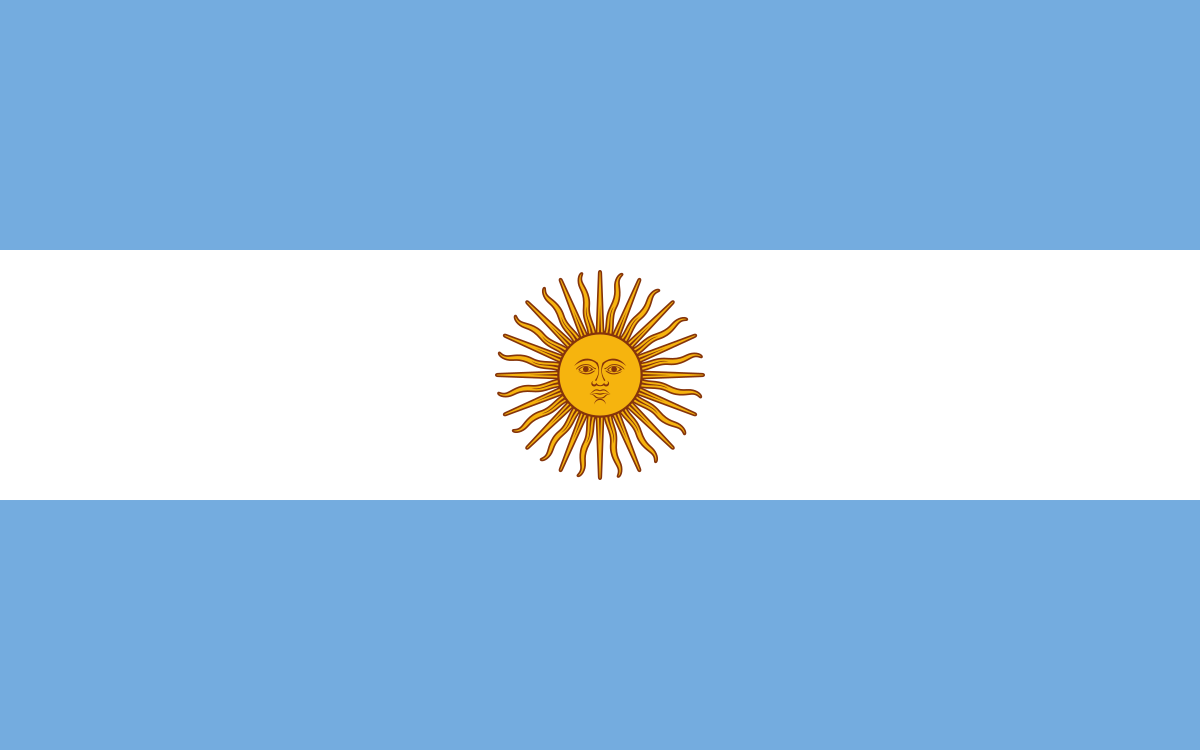
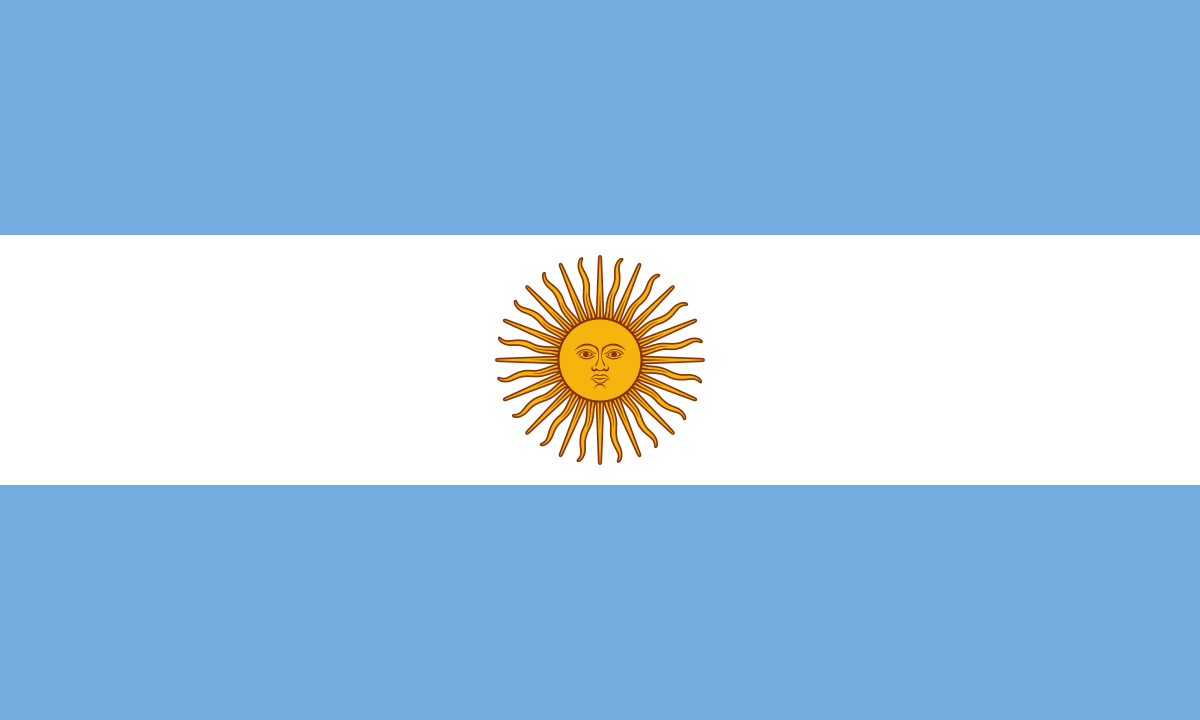
erro na resolução das bandeiraS :(

Changed region(s): [[0.0, 0.3667, 1.0, 0.6722], [0.0, 0.3056, 1.0, 0.3361]]

diff --git a/GeoMente/Form1.cs b/GeoMente/Form1.cs
@@ -43,6 +43,8 @@ namespace GeoMente
             btnNovoJogo.Click += new EventHandler(btnNovoJogo_Click);
             btnAdivinhar.Click += new EventHandler(btnAdivinhar_Click);
             timerJogo.Tick += new EventHandler(timerJogo_Tick);
+            this.FormClosing += new FormClosingEventHandler(Form1_FormClosing);
+            btnJogarNovamente.Click += new EventHandler(btnJogarNovamente_Click);
 
             // Inicia o jogo assim que o formulário é carregado
             IniciarNovoJogo();
@@ -87,66 +89,7 @@ namespace GeoMente
             paisAtual = todosOsPaises[rand.Next(todosOsPaises.Count)];
             paisAtualNomeSemAcentos = RemoverAcentos(paisAtual.Nome);
 
-            // Libera a imagem anterior, se existir
-            if (pictureBoxBandeira.Image != null)
-            {
-                pictureBoxBandeira.Image.Dispose();
-            }
-
-            // Carrega a imagem da bandeira
-            string imagePath = Path.Combine(exeDir, paisAtual.CaminhoImagem);
-            if (File.Exists(imagePath))
-            {
-                try
-                {
-                    // Load the image using Image.FromFile
-                    Image loadedImage = Image.FromFile(imagePath);
-
-                    // Create a new Bitmap from the loaded image to ensure proper disposal
-                    // and avoid potential issues with Image.FromFile's internal locking.
-                    pictureBoxBandeira.Image = new Bitmap(loadedImage);
-
-                    // Dispose the original loaded image
-                    loadedImage.Dispose();
-                }
-                catch (ArgumentException ex)
-                {
-                    // Handle the case where the file is not a valid image or is corrupted
-                    Console.WriteLine($"Erro ao carregar imagem: {ex.Message}");
-                    // Display placeholder
-                    Bitmap bmp = new Bitmap(pictureBoxBandeira.Width, pictureBoxBandeira.Height);
-                    using (Graphics g = Graphics.FromImage(bmp))
-                    {
-                        g.Clear(Color.LightGray);
-                        g.DrawString("Erro ao carregar imagem", this.Font, Brushes.Black, 10, 10);
-                    }
-                    pictureBoxBandeira.Image = bmp;
-                }
-                catch (OutOfMemoryException ex)
-                {
-                    // Handle potential OutOfMemoryException again, though less likely with this approach
-                    Console.WriteLine($"Erro de memória ao carregar imagem: {ex.Message}");
-                    // Display placeholder
-                    Bitmap bmp = new Bitmap(pictureBoxBandeira.Width, pictureBoxBandeira.Height);
-                    using (Graphics g = Graphics.FromImage(bmp))
-                    {
-                        g.Clear(Color.LightGray);
-                        g.DrawString("Erro de memória", this.Font, Brushes.Black, 10, 10);
-                    }
-                    pictureBoxBandeira.Image = bmp;
-                }
-            }
-            else
-            {
-                // If the image file doesn't exist, display a placeholder
-                Bitmap bmp = new Bitmap(pictureBoxBandeira.Width, pictureBoxBandeira.Height);
-                using (Graphics g = Graphics.FromImage(bmp))
-                {
-                    g.Clear(Color.LightGray);
-                    g.DrawString("Imagem não encontrada", this.Font, Brushes.Black, 10, 10);
-                }
-                pictureBoxBandeira.Image = bmp;
-            }
+            CarregarImagemBandeira();
 
             // Inicializa a palavra exibida com underscores
             palavraExibida = new char[paisAtual.Nome.Length];
@@ -201,6 +144,8 @@ namespace GeoMente
 
             // Limpa a mensagem de fim de jogo
             lblMensagemFinal.Visible = false;
+            btnJogarNovamente.Visible = false;
+            btnNovoJogo.Visible = true;
         }
 
         private void btnNovoJogo_Click(object sender, EventArgs e)
@@ -295,6 +240,8 @@ namespace GeoMente
             timerJogo.Stop();
             txtLetra.Enabled = false;
             btnAdivinhar.Enabled = false;
+            btnNovoJogo.Visible = false;
+            btnJogarNovamente.Visible = true;
 
             if (vitoria)
             {
@@ -309,6 +256,11 @@ namespace GeoMente
                 lblMensagemFinal.ForeColor = Color.Red;
             }
             lblMensagemFinal.Visible = true;
+        }
+
+        private void btnJogarNovamente_Click(object sender, EventArgs e)
+        {
+            IniciarNovoJogo();
         }
 
         private void timerJogo_Tick(object sender, EventArgs e)
@@ -327,6 +279,50 @@ namespace GeoMente
         private void pictureBoxBandeira_Click(object sender, EventArgs e)
         {
 
+        }
+
+        private void CarregarImagemBandeira()
+        {
+            if (pictureBoxBandeira.Image != null)
+            {
+                pictureBoxBandeira.Image.Dispose();
+                pictureBoxBandeira.Image = null;
+            }
+
+            string imagePath = Path.Combine(exeDir, paisAtual.CaminhoImagem);
+            if (File.Exists(imagePath))
+            {
+                try
+                {
+                    using (Image originalImage = Image.FromFile(imagePath))
+                    {
+                        int newWidth = pictureBoxBandeira.Width;
+                        int newHeight = (int)((double)originalImage.Height / originalImage.Width * newWidth);
+                        Bitmap resizedImage = new Bitmap(originalImage, newWidth, newHeight);
+                        pictureBoxBandeira.Image = resizedImage;
+                    }
+                }
+                catch (Exception ex)
+                {
+                    Console.WriteLine($"Erro ao carregar ou redimensionar imagem: {ex.Message}");
+                    // Lógica de fallback para exibir uma imagem de erro
+                }
+            }
+            else
+            {
+                Console.WriteLine($"Imagem não encontrada: {imagePath}");
+                // Lógica de fallback para exibir uma imagem de erro
+            }
+        }
+
+        private void Form1_FormClosing(object sender, FormClosingEventArgs e)
+        {
+            // Libera a imagem ao fechar o formulário para evitar memory leaks
+            if (pictureBoxBandeira.Image != null)
+            {
+                pictureBoxBandeira.Image.Dispose();
+                pictureBoxBandeira.Image = null;
+            }
         }
 
         private static string RemoverAcentos(string text)

diff --git a/GeoMente/FormEntrada.Designer.cs b/GeoMente/FormEntrada.Designer.cs
@@ -25,7 +25,7 @@ namespace GeoMente
             // 
             // pictureBoxLogo
             // 
-            this.pictureBoxLogo.Location = new System.Drawing.Point(12, 12);
+            this.pictureBoxLogo.Location = new System.Drawing.Point(448, 150);
             this.pictureBoxLogo.Name = "pictureBoxLogo";
             this.pictureBoxLogo.Size = new System.Drawing.Size(460, 200);
             this.pictureBoxLogo.SizeMode = System.Windows.Forms.PictureBoxSizeMode.Zoom;
@@ -35,7 +35,7 @@ namespace GeoMente
             // btnJogar
             // 
             this.btnJogar.Font = new System.Drawing.Font("Microsoft Sans Serif", 15.75F, System.Drawing.FontStyle.Bold, System.Drawing.GraphicsUnit.Point, ((byte)(0)));
-            this.btnJogar.Location = new System.Drawing.Point(140, 230);
+            this.btnJogar.Location = new System.Drawing.Point(578, 400);
             this.btnJogar.Name = "btnJogar";
             this.btnJogar.Size = new System.Drawing.Size(200, 60);
             this.btnJogar.TabIndex = 1;
@@ -45,7 +45,7 @@ namespace GeoMente
             // btnSair
             // 
             this.btnSair.Font = new System.Drawing.Font("Microsoft Sans Serif", 12F, System.Drawing.FontStyle.Regular, System.Drawing.GraphicsUnit.Point, ((byte)(0)));
-            this.btnSair.Location = new System.Drawing.Point(190, 300);
+            this.btnSair.Location = new System.Drawing.Point(628, 480);
             this.btnSair.Name = "btnSair";
             this.btnSair.Size = new System.Drawing.Size(100, 40);
             this.btnSair.TabIndex = 2;
@@ -56,7 +56,7 @@ namespace GeoMente
             // 
             this.AutoScaleDimensions = new System.Drawing.SizeF(6F, 13F);
             this.AutoScaleMode = System.Windows.Forms.AutoScaleMode.Font;
-            this.ClientSize = new System.Drawing.Size(484, 361);
+            this.ClientSize = new System.Drawing.Size(1356, 722);
             this.Controls.Add(this.btnSair);
             this.Controls.Add(this.btnJogar);
             this.Controls.Add(this.pictureBoxLogo);

diff --git a/GeoMente/Form1.Designer.cs b/GeoMente/Form1.Designer.cs
@@ -158,11 +158,24 @@
             this.lblMensagemFinal.TextAlign = System.Drawing.ContentAlignment.MiddleCenter;
             this.lblMensagemFinal.Visible = false;
             // 
+            // btnJogarNovamente
+            // 
+            this.btnJogarNovamente = new System.Windows.Forms.Button();
+            this.btnJogarNovamente.Font = new System.Drawing.Font("Microsoft Sans Serif", 12F, System.Drawing.FontStyle.Bold, System.Drawing.GraphicsUnit.Point, ((byte)(0)));
+            this.btnJogarNovamente.Location = new System.Drawing.Point(575, 550);
+            this.btnJogarNovamente.Name = "btnJogarNovamente";
+            this.btnJogarNovamente.Size = new System.Drawing.Size(200, 60);
+            this.btnJogarNovamente.TabIndex = 10;
+            this.btnJogarNovamente.Text = "Jogar Novamente";
+            this.btnJogarNovamente.UseVisualStyleBackColor = true;
+            this.btnJogarNovamente.Visible = false;
+            // 
             // Form1
             // 
             this.AutoScaleDimensions = new System.Drawing.SizeF(8F, 16F);
             this.AutoScaleMode = System.Windows.Forms.AutoScaleMode.Font;
             this.ClientSize = new System.Drawing.Size(1356, 722);
+            this.Controls.Add(this.btnJogarNovamente);
             this.Controls.Add(this.lblMensagemFinal);
             this.Controls.Add(this.lblLetrasErradas);
             this.Controls.Add(this.btnNovoJogo);
@@ -195,5 +208,6 @@
         private System.Windows.Forms.Timer timerJogo;
         private System.Windows.Forms.Label lblLetrasErradas;
         private System.Windows.Forms.Label lblMensagemFinal;
+        private System.Windows.Forms.Button btnJogarNovamente;
     }
 }

diff --git a/GeoMente/FormEntrada.cs b/GeoMente/FormEntrada.cs
@@ -38,6 +38,7 @@ namespace GeoMente
         {
             // Cria e exibe o formulário principal do jogo
             Form1 formJogo = new Form1();
+            formJogo.FormClosed += (s, args) => this.Close(); // Garante que a aplicação feche
             formJogo.Show();
             // Esconde a tela de entrada
             this.Hide();
